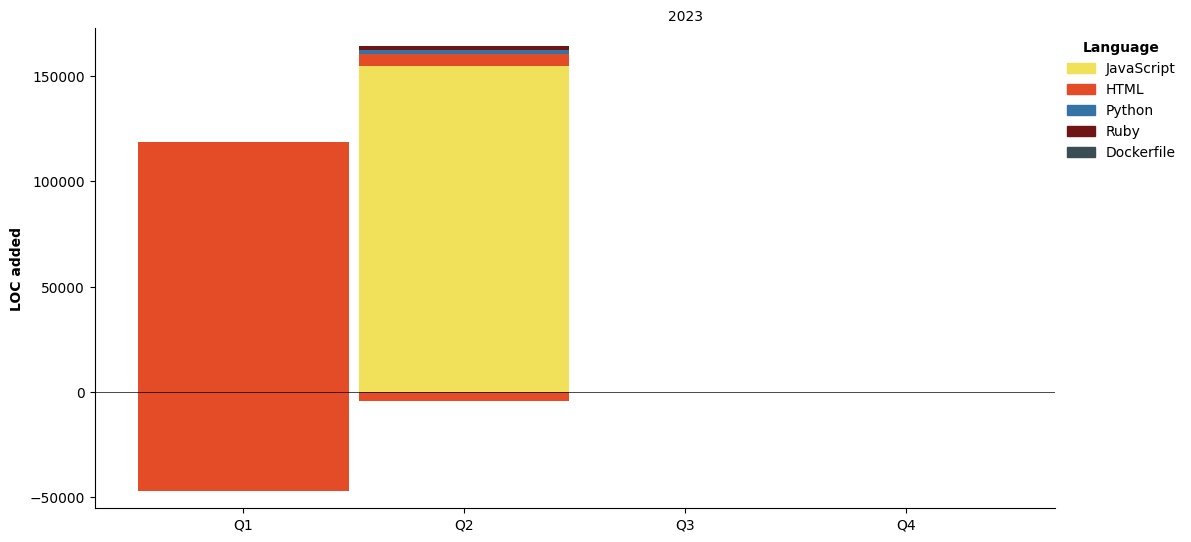
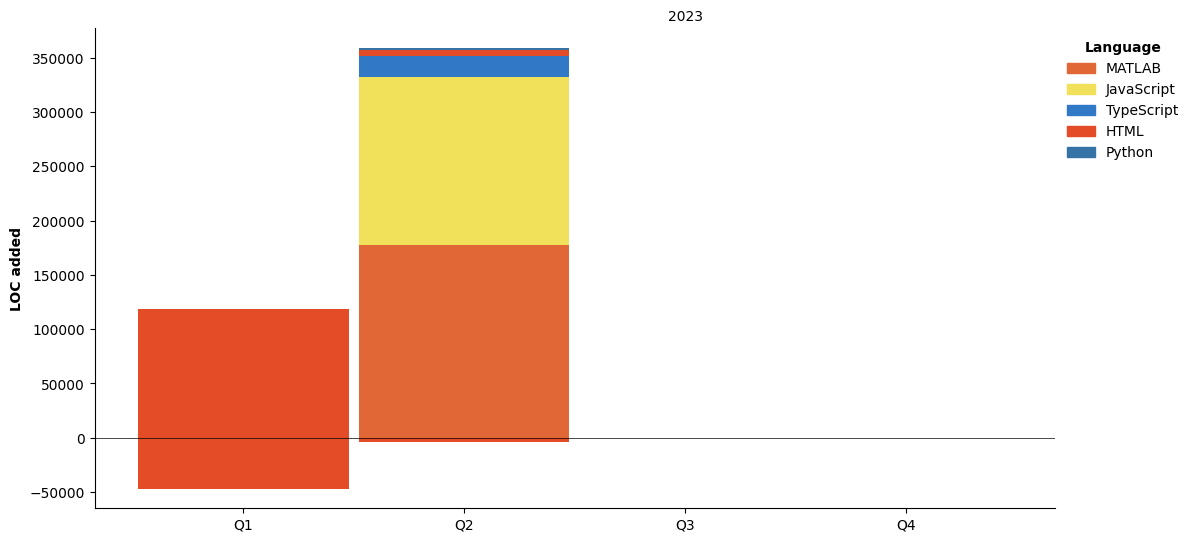
Updated with Dev Metrics

diff --git a/README.md b/README.md
@@ -162,11 +162,79 @@
 
 
 <!--START_SECTION:waka-->
+![Code Time](http://img.shields.io/badge/Code%20Time-3%20hrs%2012%20mins-blue)
+
+![Profile Views](http://img.shields.io/badge/Profile%20Views-97-blue)
+
+**🐱 My GitHub Data** 
+
+> 📦 1.2 MB Used in GitHub's Storage 
+ > 
+> 🏆 282 Contributions in the Year 2023
+ > 
+> 💼 Opted to Hire
+ > 
+> 📜 32 Public Repositories 
+ > 
+> 🔑 8 Private Repositories 
+ > 
+**I'm an Early 🐤** 
 
 ```text
-No activity tracked
+🌞 Morning                61 commits          █████░░░░░░░░░░░░░░░░░░░░   20.82 % 
+🌆 Daytime                138 commits         ████████████░░░░░░░░░░░░░   47.10 % 
+🌃 Evening                94 commits          ████████░░░░░░░░░░░░░░░░░   32.08 % 
+🌙 Night                  0 commits           ░░░░░░░░░░░░░░░░░░░░░░░░░   00.00 % 
+```
+📅 **I'm Most Productive on Wednesday** 
+
+```text
+Monday                   7 commits           █░░░░░░░░░░░░░░░░░░░░░░░░   02.39 % 
+Tuesday                  66 commits          ██████░░░░░░░░░░░░░░░░░░░   22.53 % 
+Wednesday                93 commits          ████████░░░░░░░░░░░░░░░░░   31.74 % 
+Thursday                 37 commits          ███░░░░░░░░░░░░░░░░░░░░░░   12.63 % 
+Friday                   39 commits          ███░░░░░░░░░░░░░░░░░░░░░░   13.31 % 
+Saturday                 19 commits          ██░░░░░░░░░░░░░░░░░░░░░░░   06.48 % 
+Sunday                   32 commits          ███░░░░░░░░░░░░░░░░░░░░░░   10.92 % 
 ```
 
+
+📊 **This Week I Spent My Time On** 
+
+```text
+🕑 Time Zone: Asia/Shanghai
+
+💬 Programming Languages: 
+No Activity Tracked This Week
+
+🔥 Editors: 
+No Activity Tracked This Week
+
+🐱💻 Projects: 
+No Activity Tracked This Week
+
+💻 Operating System: 
+No Activity Tracked This Week
+```
+
+**I Mostly Code in Python** 
+
+```text
+Python                   4 repos             ██████░░░░░░░░░░░░░░░░░░░   25.00 % 
+MATLAB                   2 repos             ███░░░░░░░░░░░░░░░░░░░░░░   12.50 % 
+Jupyter Notebook         2 repos             ███░░░░░░░░░░░░░░░░░░░░░░   12.50 % 
+TypeScript               1 repo              ██░░░░░░░░░░░░░░░░░░░░░░░   06.25 % 
+Vue                      1 repo              ██░░░░░░░░░░░░░░░░░░░░░░░   06.25 % 
+```
+
+
+
+**Timeline**
+
+![Lines of Code chart](https://raw.githubusercontent.com/cobaltyang/cobaltyang/main/assets/bar_graph.png)
+
+
+ Last Updated on 12/05/2023 18:35:32 UTC
 <!--END_SECTION:waka-->
 
 <!-- insert your content here -->
